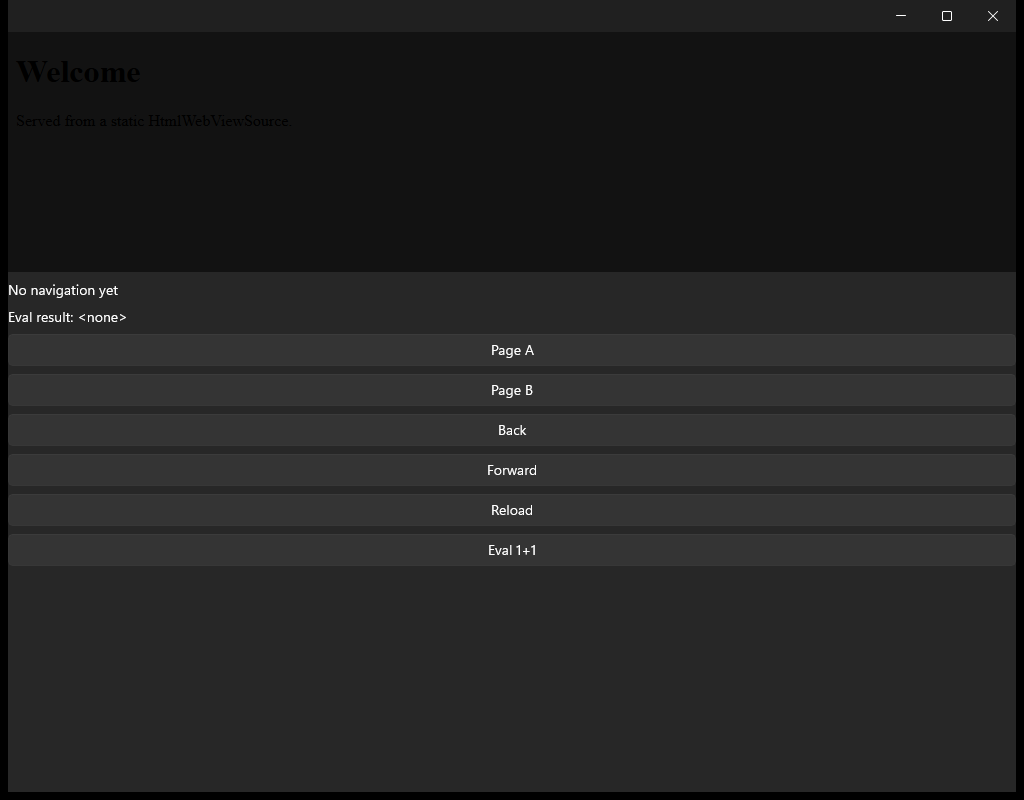
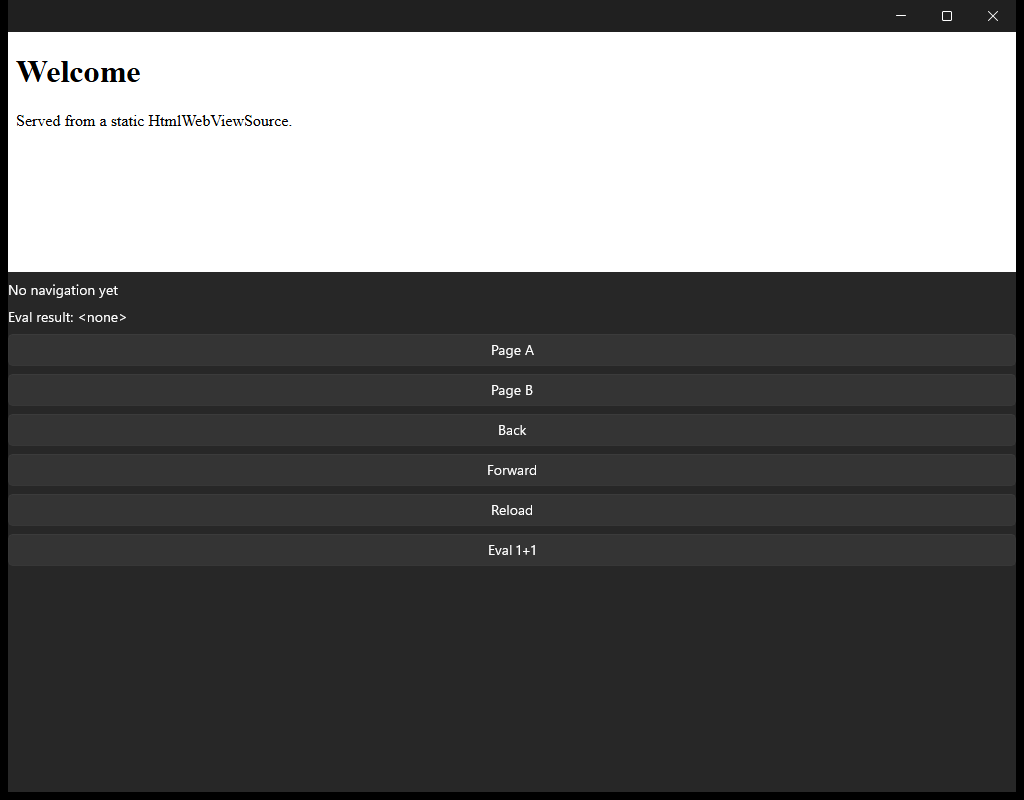
fix(windows/parity): an html source brings no canvas — web_view dark 29.43% -> 0.00%
SSIM 0.7260 in dark against 1.0000 in light, cpp column only; cpp_xaml was green in
both, and iOS/maccatalyst/Android were green in both. Now 1.0000/0.00% on all four.

WHAT THE PICTURE HELD. The cell's luminance range was 0..18. Stretched, it contains
the complete, correctly typeset Welcome document — heading, body, trailing period,
right font metrics. So not the WebView2 init race web_view_handler.cpp:68-72
documents: an unpainted cell has no glyphs and this one had all of them. Sampled at
#121212 where MAUI and the twin read #ffffff, panel #272727 in all three. Reproduced
exactly on a second capture 20 minutes later.

WHY THE COLUMNS DIVERGED. Same handler, same markup; the SOURCE KIND differs. The
twin sets Source="welcome.html" — a URL, whose document carries an opaque canvas.
The code-first page sets an HtmlWebViewSource, which reaches WebView2 through
NavigateToString, and that document brings no canvas of its own, so the host's dark
base painted through while `color-scheme: light` still resolved the TEXT black. Light
scored a perfect 1.0000 the whole time because a white document over a white app
background hides exactly this. Declaring `html{background:#fff}` makes the document
opaque regardless of what is beneath it — and the declared white SURVIVES, which also
rules out Chromium force-dark, since force-dark inverts author backgrounds.

This falsifies a claim already in the tree. web_view_handler.cpp:611-613 justifies
[…]

Changed region(s): [[0.0, 0.0312, 1.0, 0.3438]]

diff --git a/port/cpp/examples/gallery/pages/web_view_page.hpp b/port/cpp/examples/gallery/pages/web_view_page.hpp
@@ -153,8 +153,22 @@ namespace maui::samples
                 // ruling 12, fix-both-sides): white in both themes, matching the shared web_view.xaml twin.
                 // <!DOCTYPE html> selects standards mode — MAUI's welcome.html has it, and without it the
                 // WebView renders in quirks mode (different default font/box metrics → a ~1.5% parity diff).
+                //
+                // The explicit `html{background:#fff}` is load-bearing on WINDOWS ONLY, and the meta tag
+                // alone is not enough there. Measured on the board (2026-08-06, reproduced on a repeat
+                // capture): in DARK this cell renders black text on a #121212 canvas, while the shared twin
+                // — same handler, same markup, but navigated as a URL (Source="welcome.html") — renders the
+                // same document on opaque white. Only the source KIND differs: an html source reaches
+                // WebView2 through NavigateToString, whose document brings no opaque canvas of its own, so
+                // the host's dark base paints through while `color-scheme: light` still resolves the TEXT
+                // black. Light scored SSIM 1.0000 throughout, because a white document over a white app
+                // background hides exactly this. Declaring the background makes the document opaque
+                // regardless of what is beneath it. This also falsifies web_view_handler.cpp:611-613's
+                // "zero render risk" note on skipping Profile.PreferredColorScheme — the meta tag does NOT
+                // pin the canvas "either way" under NavigateToString.
                 "<!DOCTYPE html><html><head><meta name=\"color-scheme\" content=\"light\">"
-                "<meta name=\"viewport\" content=\"width=device-width, initial-scale=1\"></head>"
+                "<meta name=\"viewport\" content=\"width=device-width, initial-scale=1\">"
+                "<style>html{background:#fff}</style></head>"
                 "<body><h1>" +
                     heading + "</h1><p>Served from a static HtmlWebViewSource.</p></body></html>",
                 std::move(base_url)));

diff --git a/port/cpp/tests/controls/web_view_page_tests.cpp b/port/cpp/tests/controls/web_view_page_tests.cpp
@@ -3,9 +3,9 @@
 // interactions (source swap buttons, navigated → status label, eval_js → result label) without a
 // hosting main. The handler-dependent paths (back/forward/reload, the real eval round trip) are covered
 // by the web_view seam suites per backend.
+#include "examples/gallery/pages/web_view_page.hpp"
 #include "maui/core/web_navigation_event.hpp"
 #include "maui/core/web_navigation_result.hpp"
-#include "examples/gallery/pages/web_view_page.hpp"
 
 #include <string>
 
@@ -30,6 +30,25 @@ namespace
         ASSERT_NE(source, nullptr);
         EXPECT_NE(source->html().find("Welcome"), std::string::npos);
         EXPECT_EQ(source->base_url(), "https://demo.test/welcome");
+    }
+
+    // Regression net for the windows dark render. The html source reaches WebView2 through
+    // NavigateToString, whose document brings no opaque canvas, so on a dark host the base paints through
+    // and the page scored SSIM 0.7260 / 29.43% against MAUI's white one. `<meta color-scheme>` does not
+    // cover it — only an explicit background does. Both the initial source and the ones the Page A/Page B
+    // buttons swap in must carry it, or the same page goes red again on whichever one is showing.
+    TEST(web_view_page, every_html_source_declares_an_opaque_background)
+    {
+        web_view_page demo;
+        const auto declares_background = [&] {
+            auto* source = dynamic_cast<maui::controls::html_web_view_source*>(demo.browser().source());
+            return source != nullptr && source->html().find("html{background:#fff}") != std::string::npos;
+        };
+        EXPECT_TRUE(declares_background()) << "initial source";
+        demo.load_a_button().send_clicked();
+        EXPECT_TRUE(declares_background()) << "after Page A";
+        demo.load_b_button().send_clicked();
+        EXPECT_TRUE(declares_background()) << "after Page B";
     }
 
     TEST(web_view_page, load_buttons_swap_the_html_source)

diff --git a/port/cpp/docs/comparison/README.md b/port/cpp/docs/comparison/README.md
@@ -10,8 +10,8 @@ Per-page MAUI-vs-C++ visual parity for the **172 gallery pages**, on **iOS**, **
 <tr><td>iOS</td><td>144</td><td>23</td><td>5</td><td>0</td><td>0</td><td>146</td><td>23</td><td>3</td><td>0</td><td>0</td></tr>
 <tr><td>macOS</td><td>130</td><td>39</td><td>3</td><td>0</td><td>0</td><td>129</td><td>41</td><td>2</td><td>0</td><td>0</td></tr>
 <tr><td>Android</td><td>135</td><td>29</td><td>8</td><td>0</td><td>0</td><td>136</td><td>29</td><td>7</td><td>0</td><td>0</td></tr>
-<tr><td>Windows</td><td>138</td><td>30</td><td>4</td><td>0</td><td>0</td><td>141</td><td>29</td><td>2</td><td>0</td><td>0</td></tr>
-<tr><td><strong>Total</strong></td><td><strong>547</strong></td><td><strong>121</strong></td><td><strong>20</strong></td><td><strong>0</strong></td><td><strong>0</strong></td><td><strong>552</strong></td><td><strong>122</strong></td><td><strong>14</strong></td><td><strong>0</strong></td><td><strong>0</strong></td></tr>
+<tr><td>Windows</td><td>139</td><td>30</td><td>3</td><td>0</td><td>0</td><td>141</td><td>29</td><td>2</td><td>0</td><td>0</td></tr>
+<tr><td><strong>Total</strong></td><td><strong>548</strong></td><td><strong>121</strong></td><td><strong>19</strong></td><td><strong>0</strong></td><td><strong>0</strong></td><td><strong>552</strong></td><td><strong>122</strong></td><td><strong>14</strong></td><td><strong>0</strong></td><td><strong>0</strong></td></tr>
 </table>
 
 _macOS row = **Mac Catalyst**. The AppKit columns (`appkit_cpp`, `appkit_xaml`) are captured and shown per page but are not pixel-scored — AppKit is a different UI framework (NSViews vs UIKit) and cannot pixel-match, so its requirement is element completeness plus cpp-vs-xaml agreement, not a parity score._
@@ -7836,9 +7836,9 @@ Real .NET MAUI as **WinUI 3** (`Microsoft.UI.Xaml`) — MAUI's actual Windows ba
 
 | Classification | Pixel-Perfect Score — C++ (C1/C3) | Pixel-Perfect Score — C++ &amp; XAML (C2/C4) |
 | --- | --- | --- |
-| 🟢 Match | 138 | 141 |
+| 🟢 Match | 139 | 141 |
 | 🟡 Minor | 30 | 29 |
-| 🔴 Major | 4 | 2 |
+| 🔴 Major | 3 | 2 |
 | ⬛ Blank | 0 | 0 |
 | ⏳ Unreviewed | 0 | 0 |
 
@@ -10392,16 +10392,16 @@ Light: SSIM 1.0000, 0.01% pixels differ · Dark: SSIM 1.0000, 0.01% pixels diffe
 
 Light: SSIM 1.0000, 0.01% pixels differ · Dark: SSIM 1.0000, 0.01% pixels differ
 
-### 171. Web View — 🔴/🟢
+### 171. Web View — 🟢/🟢
 <sub>web_view</sub>
 
 <table><tr><th></th><th>MAUI</th><th>C++</th><th>C++ &amp; XAML</th></tr><tr><th>Light</th><td><img width="300px" src="captures/windows/maui/web_view_light.png" /></td><td><img width="300px" src="captures/windows/cpp/web_view_light.png" /></td><td><img width="300px" src="captures/windows/xaml/web_view_light.png" /></td></tr><tr><th>Dark</th><td><img width="300px" src="captures/windows/maui/web_view_dark.png" /></td><td><img width="300px" src="captures/windows/cpp/web_view_dark.png" /></td><td><img width="300px" src="captures/windows/xaml/web_view_dark.png" /></td></tr></table>
 
 a self-contained demo page for the W1-08 web_view vertical: a web_view loading a STATIC html_web_view_source (no network), back/forward/reload buttons over the handler-pushed CanGoBack/CanGoForward read-onlys, an &amp;quot;Eval 1+1&amp;quot; button driving t
 
-#### 🔴 Pixel-Perfect Score — C++ (C1/C3)
+#### 🟢 Pixel-Perfect Score — C++ (C1/C3)
 
-Light: SSIM 1.0000, 0.00% pixels differ · Dark: SSIM 0.7260, 29.43% pixels differ
+Light: SSIM 1.0000, 0.00% pixels differ · Dark: SSIM 1.0000, 0.00% pixels differ
 
 #### 🟢 Pixel-Perfect Score — C++ &amp; XAML (C2/C4)
 

diff --git a/port/cpp/docs/comparison/PARITY_REVIEW.md b/port/cpp/docs/comparison/PARITY_REVIEW.md
@@ -2528,3 +2528,43 @@ No single cause spans these four. `clip` (already recorded) is code-first conten
 authored; `path_gallery` is code-first authoring; `box_view` is twin degradation; `clip_gallery` is a
 few pixels of scroll landing; `selection_synchronization` is undiagnosed. Only `path_gallery` is safe to
 act on without a ruling, and even there the magnitudes are contested.
+
+---
+
+## windows `web_view` dark — an html source has no canvas of its own (2026-08-06, MEASURED)
+
+The first driven Windows lane turned `web_view` red in dark only: SSIM 0.7260, 29.43% of frame, against
+SSIM 1.0000 in light. `cpp_xaml` was green in both themes.
+
+**What the picture actually contains.** The code-first cell's luminance range is 0..18. Stretched, it
+holds the complete, correctly typeset Welcome document — heading, body text, trailing period, right
+font metrics. So this is not the WebView2 init race `web_view_handler.cpp:68-72` documents: an unpainted
+cell has no glyphs, and this one has all of them. Sampled: the cell is `#121212` in the port's column and
+`#ffffff` in MAUI's and the twin's, with the app panel at `#272727` in all three. Reproduced exactly on a
+second capture 20 minutes later, so it is deterministic.
+
+**Why the two columns differ.** They run the same handler and the same markup. The only difference is
+the SOURCE KIND. The twin sets `Source="welcome.html"` — a URL, which navigates a document with a real
+origin and an opaque white canvas. The code-first page sets an `HtmlWebViewSource`, which reaches
+WebView2 through `NavigateToString`; that document brings no opaque canvas, so on a dark host the base
+paints through it while `color-scheme: light` still resolves the TEXT black. Light scored a perfect
+1.0000 the whole time because a white document over a white app background hides exactly this.
+
+**This falsifies a claim already in the tree.** `web_view_handler.cpp:611-613` justifies skipping
+`Profile.PreferredColorScheme` with "Zero render risk on the board: Auto is WebView2's default, no
+gallery page sets a WebView Background, and welcome.html pins `<meta name="color-scheme">` either way."
+The meta tag does NOT pin the canvas under `NavigateToString`. The skip may still be right — the oracle
+only sets `PreferredColorScheme = Light` when a Background IS set, and no gallery page sets one, so
+porting that method faithfully would leave it Auto and change nothing here — but the stated reason is
+wrong and should not be relied on again.
+
+**Fixed as page authoring, per ruling 12's fix-both-sides precedent on this exact page (`df52e8f212`).**
+The code-first HTML now declares `html{background:#fff}`, making the document opaque regardless of what
+is beneath it. `welcome.html` is deliberately NOT touched: it already renders white on all four
+platforms, and editing it would invalidate the MAUI column everywhere for no gain.
+
+**Open, and honestly unknown:** what MAUI itself renders for an `HtmlWebViewSource` on Windows in dark.
+No MAUI data point exists — the twin navigates a URL, and `web_view_page.hpp` is the only page in the
+gallery using `html_web_view_source`. If MAUI darkens it too, the port was faithful and this change makes
+the page diverge from MAUI's string-source behavior while matching its rendered reference. Getting the
+answer needs a string source added to the MauiReference twin and a MAUI rebuild; not done here.
